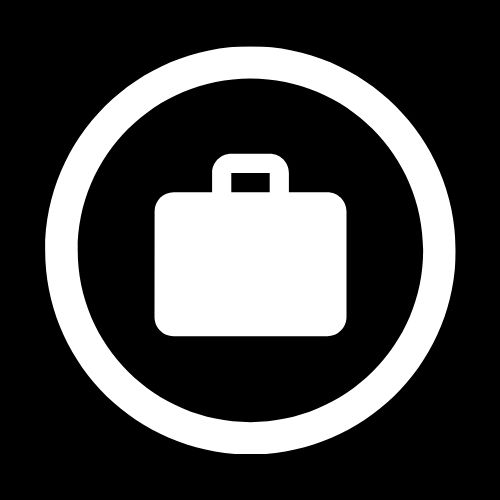
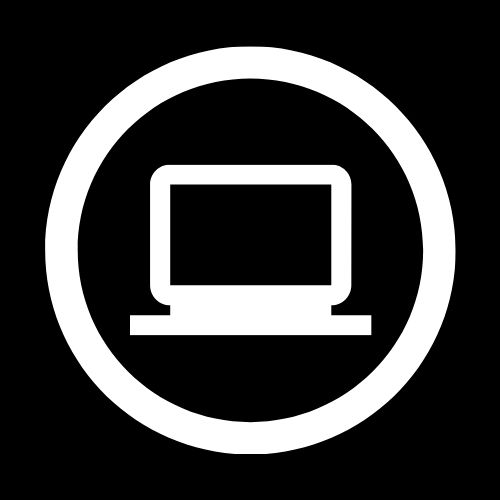
Initial commit

Changed region(s): [[0.24, 0.3, 0.75, 0.69]]

diff --git a/index.html b/index.html
@@ -156,7 +156,7 @@
         <div class="col-lg-6">
           <div class="p-5">
           <i class="fas fa-code"></i>
-            <img class="img-fluid rounded-circle" src="img/02.jpg" alt="">
+            <img class="img-fluid rounded-circle" src="img/04.jpg" alt="">
           </div>
         </div>
         <div class="col-lg-6">
